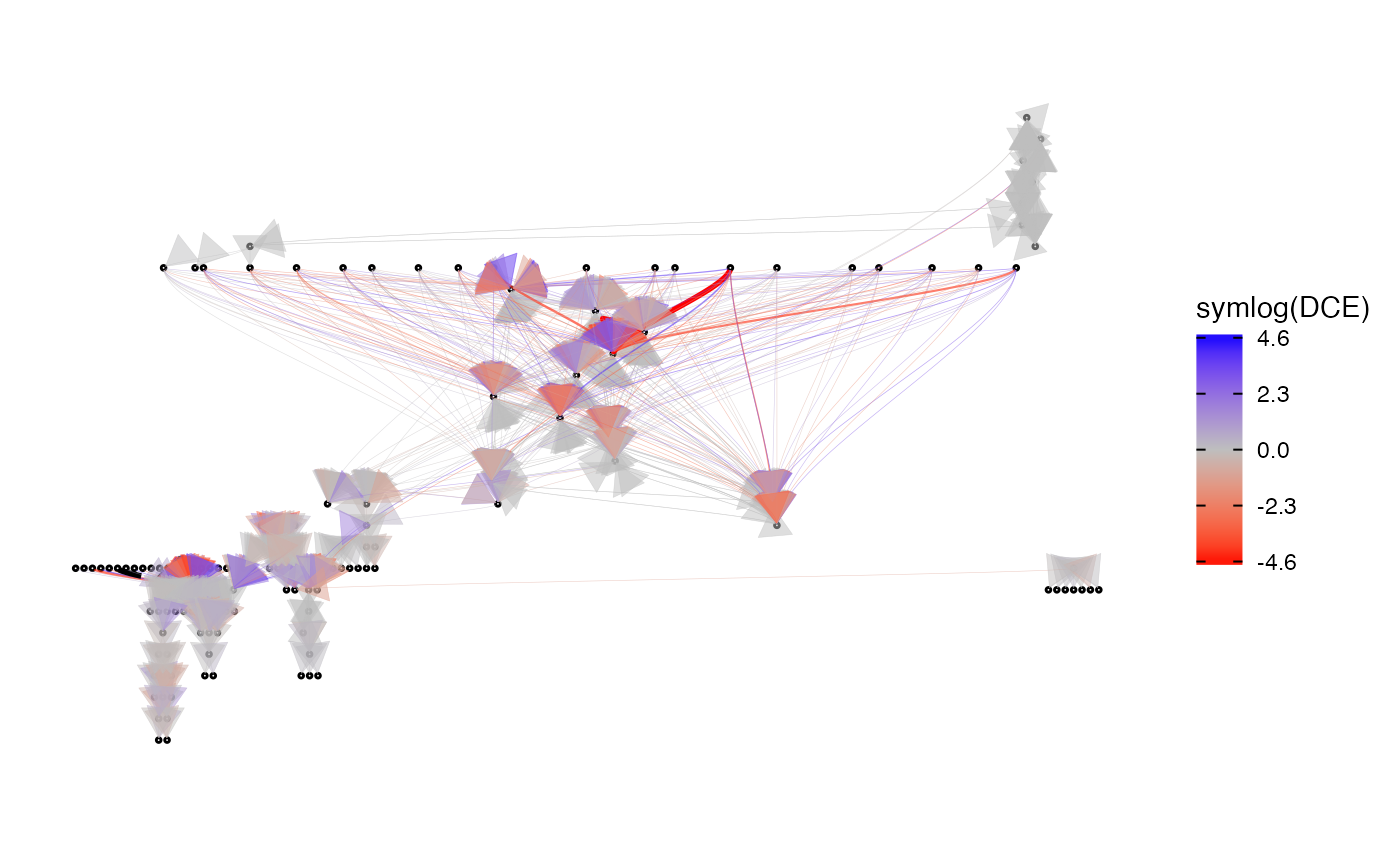
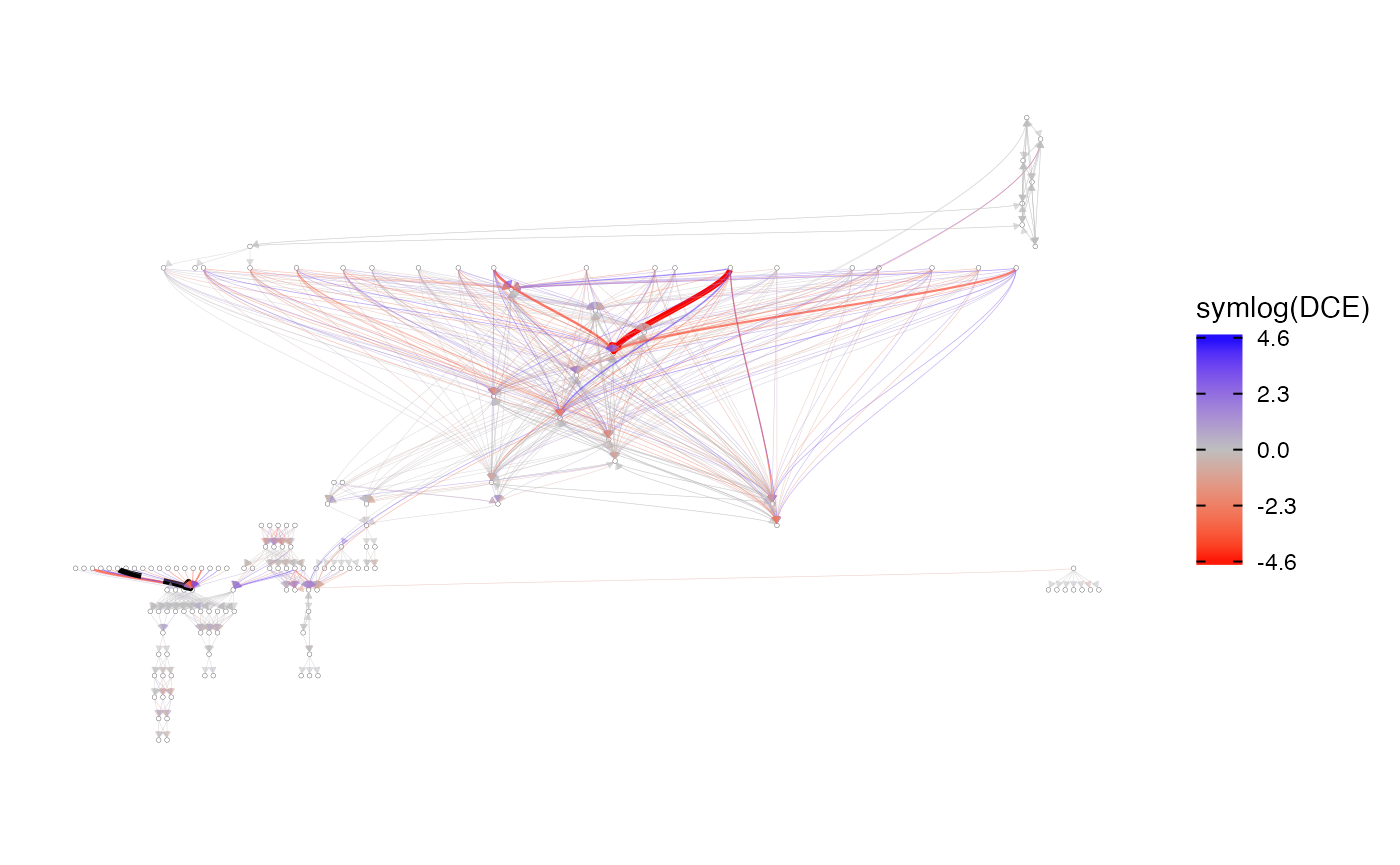
Built site for dce: 0.99.6@def1d56

diff --git a/articles/dce.html b/articles/dce.html
@@ -314,7 +314,13 @@
 ## 5  FGF21  FGFR1  -917.1445  1128.4631 4.172471e-01
 ## 6  WNT8A   FZD7   817.6733   954.3545 3.924979e-01</code></pre>
 <div class="sourceCode" id="cb56"><pre class="downlit sourceCode r">
-<code class="sourceCode R"><span class="fu"><a href="https://rdrr.io/r/graphics/plot.default.html">plot</a></span><span class="op">(</span><span class="va">res</span>, nodesize <span class="op">=</span> <span class="fl">20</span>, labelsize <span class="op">=</span> <span class="fl">1</span>, use_symlog <span class="op">=</span> <span class="cn">TRUE</span><span class="op">)</span></code></pre></div>
+<code class="sourceCode R"><span class="fu"><a href="https://rdrr.io/r/graphics/plot.default.html">plot</a></span><span class="op">(</span>
+  <span class="va">res</span>,
+  nodesize <span class="op">=</span> <span class="fl">20</span>, labelsize <span class="op">=</span> <span class="fl">1</span>,
+  node_border_size <span class="op">=</span> <span class="fl">0.05</span>, arrow_size <span class="op">=</span> <span class="fl">0.01</span>,
+  use_symlog <span class="op">=</span> <span class="cn">TRUE</span>,
+  shadowtext <span class="op">=</span> <span class="cn">TRUE</span>
+<span class="op">)</span></code></pre></div>
 <p><img src="dce_files/figure-html/unnamed-chunk-14-1.png" width="700"></p>
 </div>
 </div>
